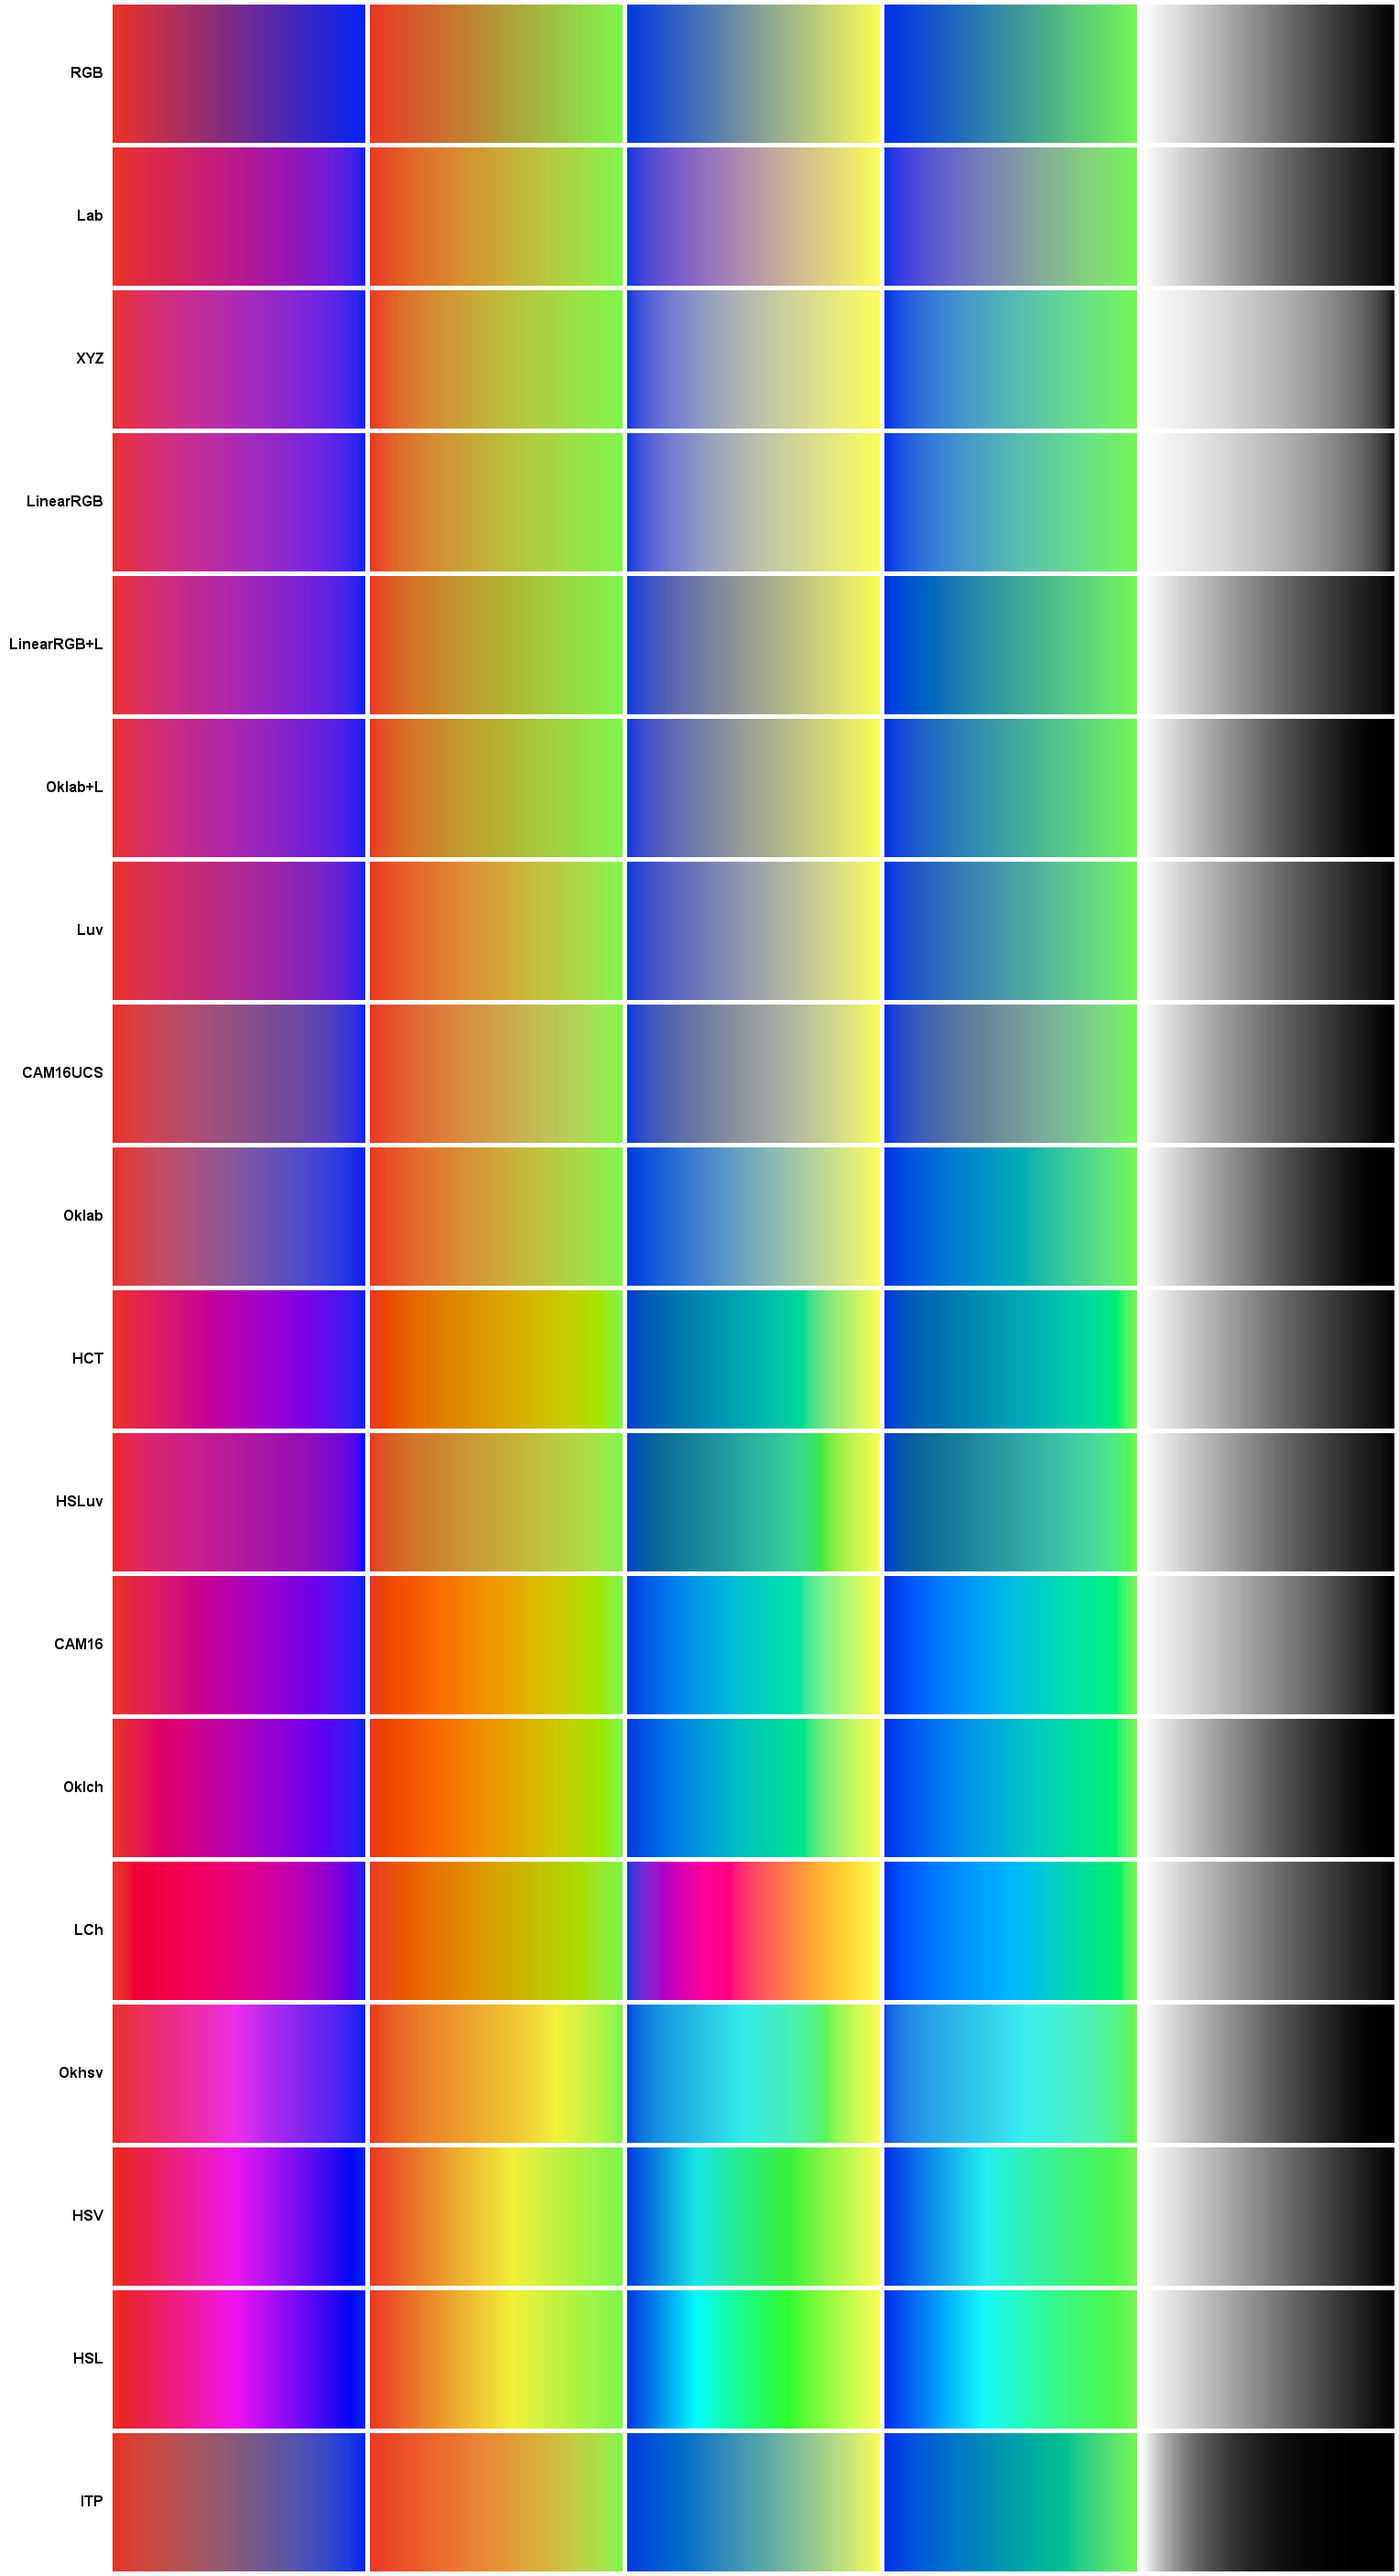
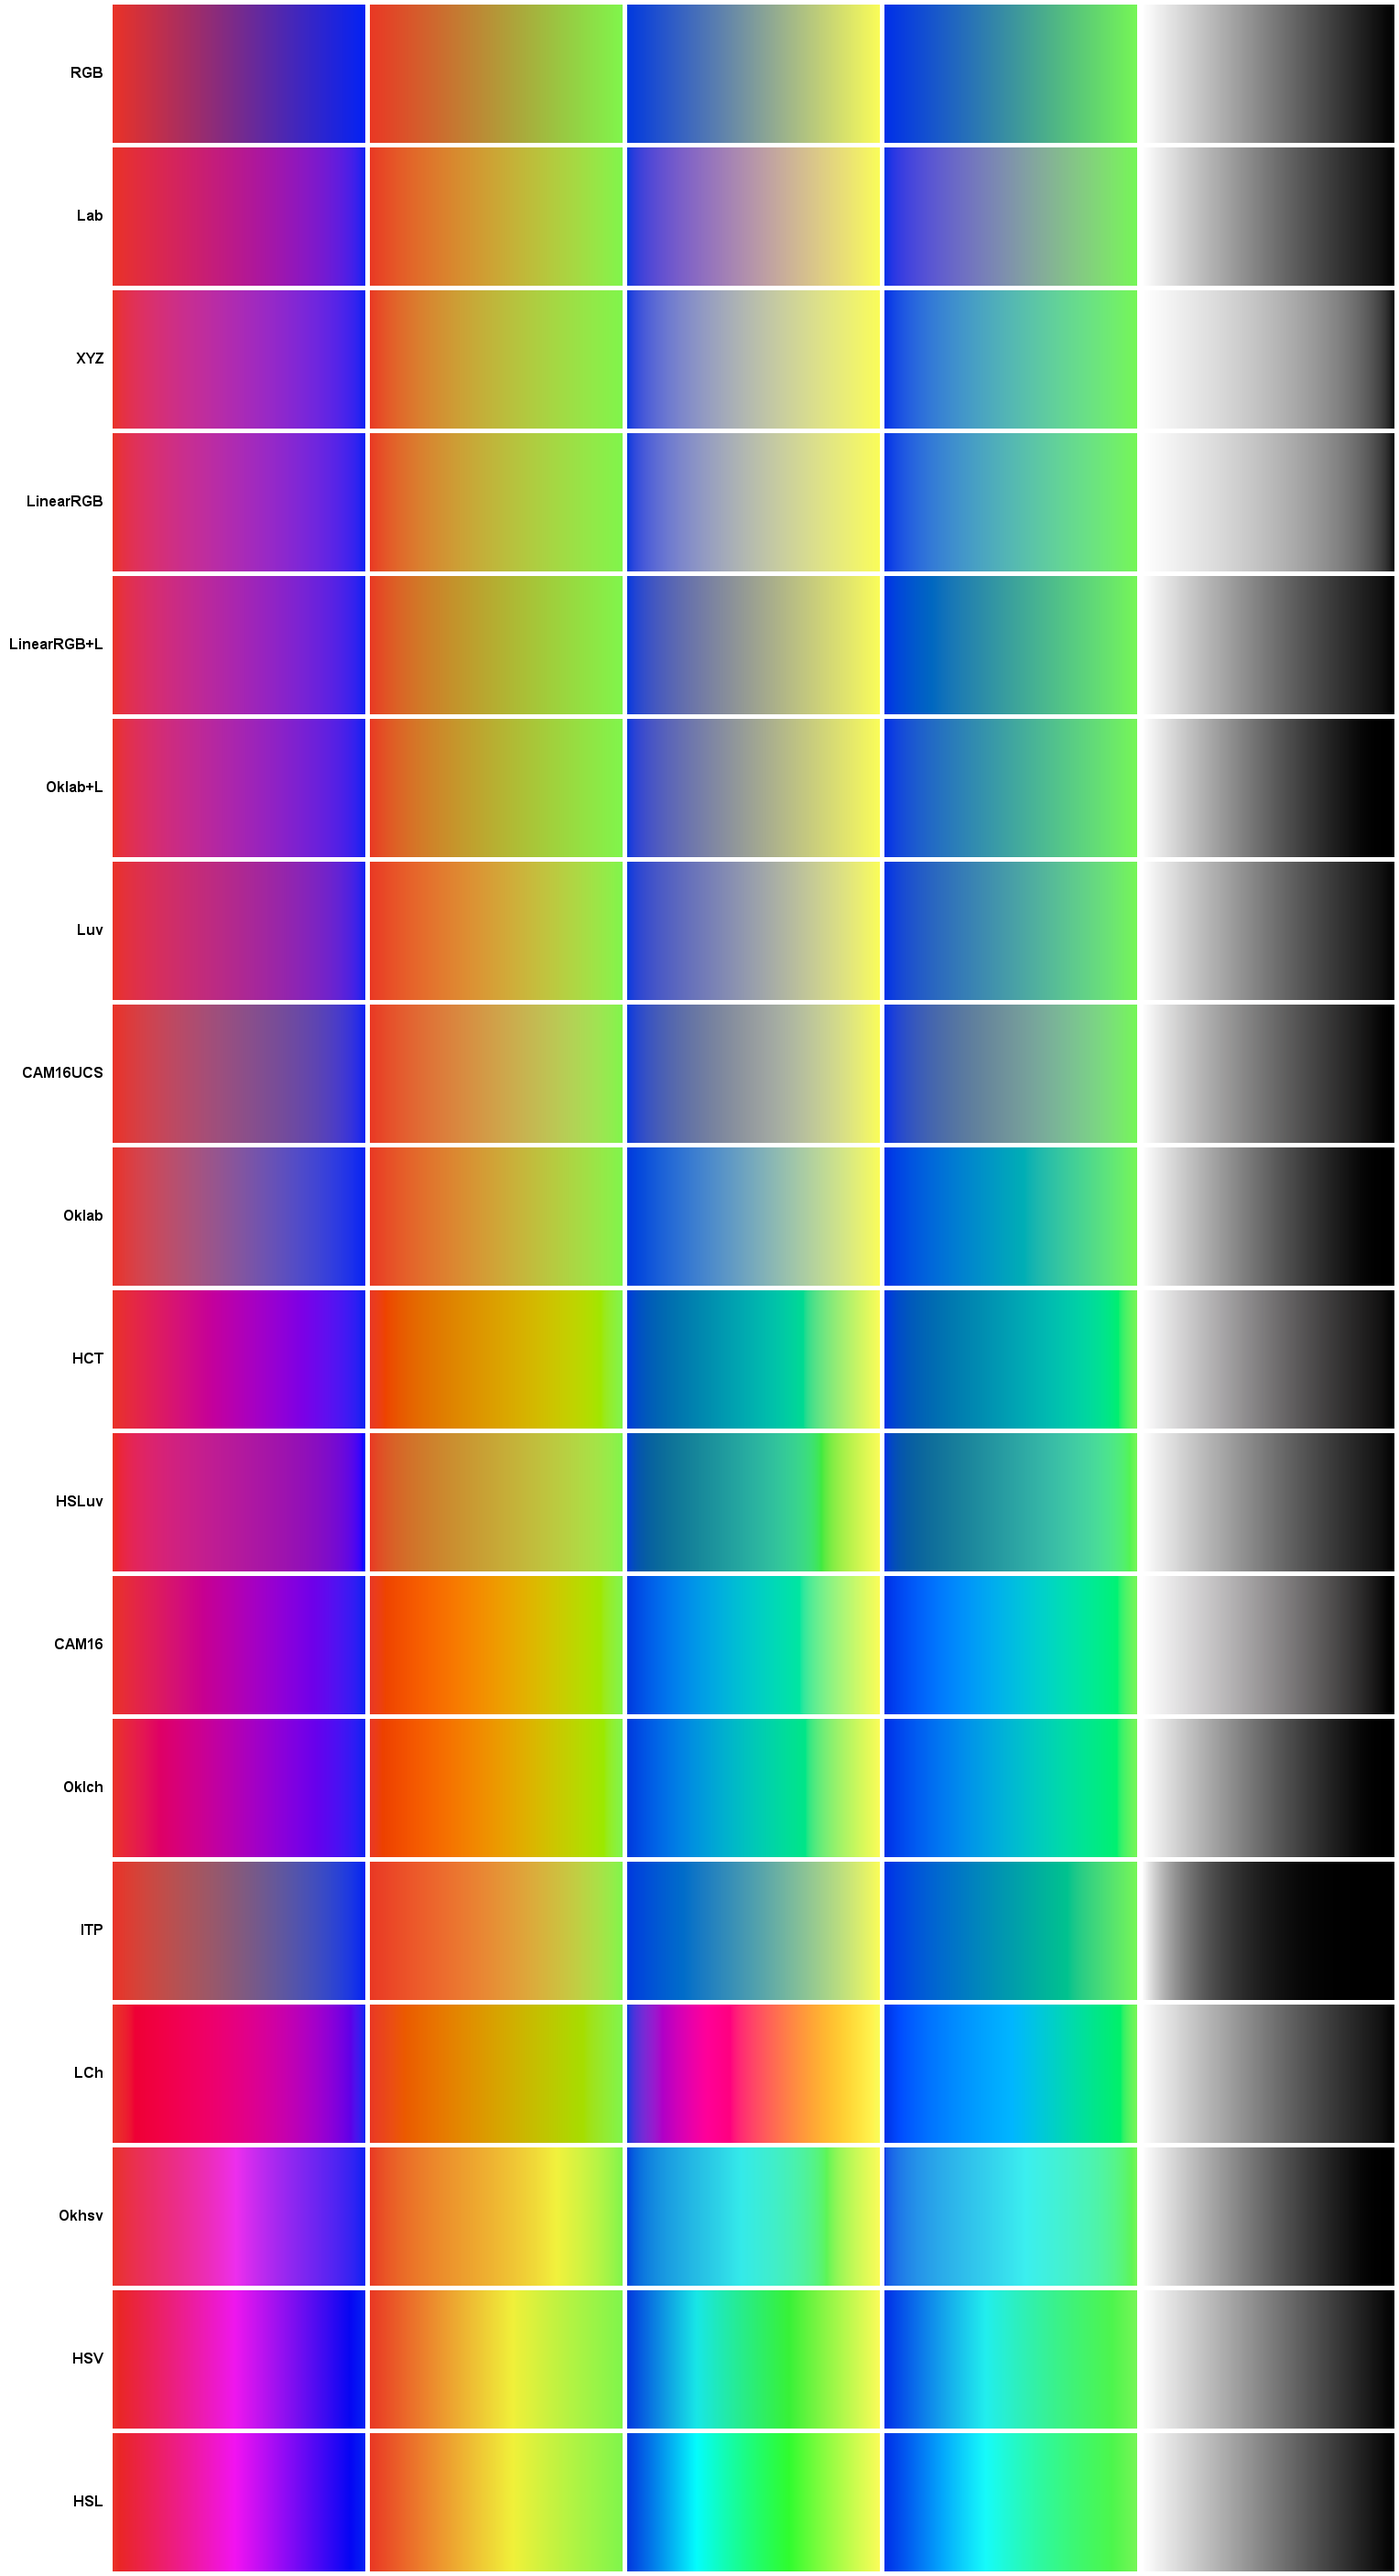
Clean up.

diff --git a/test/com/esotericsoftware/colors/Gradients.java b/test/com/esotericsoftware/colors/Gradients.java
@@ -95,14 +95,8 @@ public class Gradients {
 			Lab lab2 = Lab(to);
 			float targetL = lerp(lab1.L(), lab2.L(), t);
 
-			var c1 = LinearRGB(from);
-			var c2 = LinearRGB(to);
-			float r = lerp(c1.r(), c2.r(), t);
-			float g = lerp(c1.g(), c2.g(), t);
-			float b = lerp(c1.b(), c2.b(), t);
-
 			// Convert to Lab to adjust lightness while preserving hue/chroma direction.
-			Lab currentLab = Lab(RGB(new LinearRGB(r, g, b)));
+			Lab currentLab = Lab(RGB(lerp(LinearRGB(from), LinearRGB(to), t)));
 
 			// Use target L* but preserve a,b ratios (color direction).
 			yield RGB(new Lab(targetL, currentLab.a(), currentLab.b()));
@@ -114,14 +108,8 @@ public class Gradients {
 			Oklab ok2 = Oklab(to);
 			float targetL = lerp(ok1.L(), ok2.L(), t);
 
-			var lin1 = LinearRGB(from);
-			var lin2 = LinearRGB(to);
-			float r = lerp(lin1.r(), lin2.r(), t);
-			float g = lerp(lin1.g(), lin2.g(), t);
-			float b = lerp(lin1.b(), lin2.b(), t);
-
 			// Convert to Oklab to adjust lightness while preserving hue/chroma direction.
-			Oklab currentOklab = Oklab(RGB(new LinearRGB(r, g, b)));
+			Oklab currentOklab = Oklab(RGB(lerp(LinearRGB(from), LinearRGB(to), t)));
 
 			// Use target L* but preserve a,b ratios (color direction).
 			yield RGB(new Oklab(targetL, currentOklab.a(), currentOklab.b()));
@@ -187,11 +175,11 @@ public class Gradients {
 		config.colorSpaces.add("HSLuv");
 		config.colorSpaces.add("CAM16");
 		config.colorSpaces.add("Oklch");
+		config.colorSpaces.add("ITP"); // Intended for HDR.
 		config.colorSpaces.add("LCh");
 		config.colorSpaces.add("Okhsv");
 		config.colorSpaces.add("HSV");
 		config.colorSpaces.add("HSL");
-		config.colorSpaces.add("ITP"); // Intended for HDR.
 
 		config.gradients.add(new Gradient(RGB(0xe93227), RGB(0x0422f3))); // Red to Blue
 		config.gradients.add(new Gradient(RGB(0xe93824), RGB(0x80f54b))); // Orange to Light Green

diff --git a/test/com/esotericsoftware/colors/RGBTests.java b/test/com/esotericsoftware/colors/RGBTests.java
@@ -23,11 +23,6 @@ import com.esotericsoftware.colors.Colors.RGB;
 import com.esotericsoftware.colors.Colors.RGBW;
 import com.esotericsoftware.colors.Colors.RGBWW;
 import com.esotericsoftware.colors.Colors.XYZ;
-import com.esotericsoftware.colors.Colors.YCC;
-import com.esotericsoftware.colors.Colors.YCbCr;
-import com.esotericsoftware.colors.Colors.YCbCrColorSpace;
-import com.esotericsoftware.colors.Colors.YIQ;
-import com.esotericsoftware.colors.Colors.YUV;
 import com.esotericsoftware.colors.Colors.xy;
 import com.esotericsoftware.colors.Colors.xyY;
 

diff --git a/src/com/esotericsoftware/colors/Util.java b/src/com/esotericsoftware/colors/Util.java
@@ -483,15 +483,6 @@ public class Util {
 		}
 	}
 
-	static class OklabUtil {
-		static public Oklab lerp (Oklab Oklab1, Oklab Oklab2, float t) {
-			float L = (1 - t) * Oklab1.L() + t * Oklab2.L();
-			float a = (1 - t) * Oklab1.a() + t * Oklab2.a();
-			float b = (1 - t) * Oklab1.b() + t * Oklab2.b();
-			return new Oklab(L, a, b);
-		}
-	}
-
 	static public class RGBUtil {
 		static public float grayscale (RGB rgb) {
 			return rgb.r() * 0.2125f + rgb.g() * 0.7154f + rgb.b() * 0.0721f;

diff --git a/test/com/esotericsoftware/colors/OklabTests.java b/test/com/esotericsoftware/colors/OklabTests.java
@@ -3,7 +3,6 @@ package com.esotericsoftware.colors;
 
 import static com.esotericsoftware.colors.Colors.*;
 import static com.esotericsoftware.colors.TestsUtil.*;
-import static com.esotericsoftware.colors.Util.OklabUtil.*;
 
 import org.junit.jupiter.api.Test;
 

diff --git a/README.md b/README.md
@@ -270,12 +270,6 @@ RGB[] analogous = analogous(baseColor, 30.0f);  // 30° angle
 RGB[] splitComp = splitComplementary(baseColor);
 ```
 
-### Interpolation
-```java
-// Perceptually uniform interpolation in Oklab space
-Oklab blended = OklabUtil.lerp(oklab1, oklab2, 0.6f);  // 60% blend
-```
-
 #### Video & Broadcasting Examples
 - **YCbCr** - Digital video color space
   ```java
@@ -479,7 +473,7 @@ Oklab middle = lerp(color1, color2, 0.5f);
 RGB result = RGB(middle);
 ```
 
-### Color Interpolation (Lerp)
+### Color Interpolation
 ```java
 RGB red = new RGB(1, 0, 0);
 RGB blue = new RGB(0, 0, 1);
